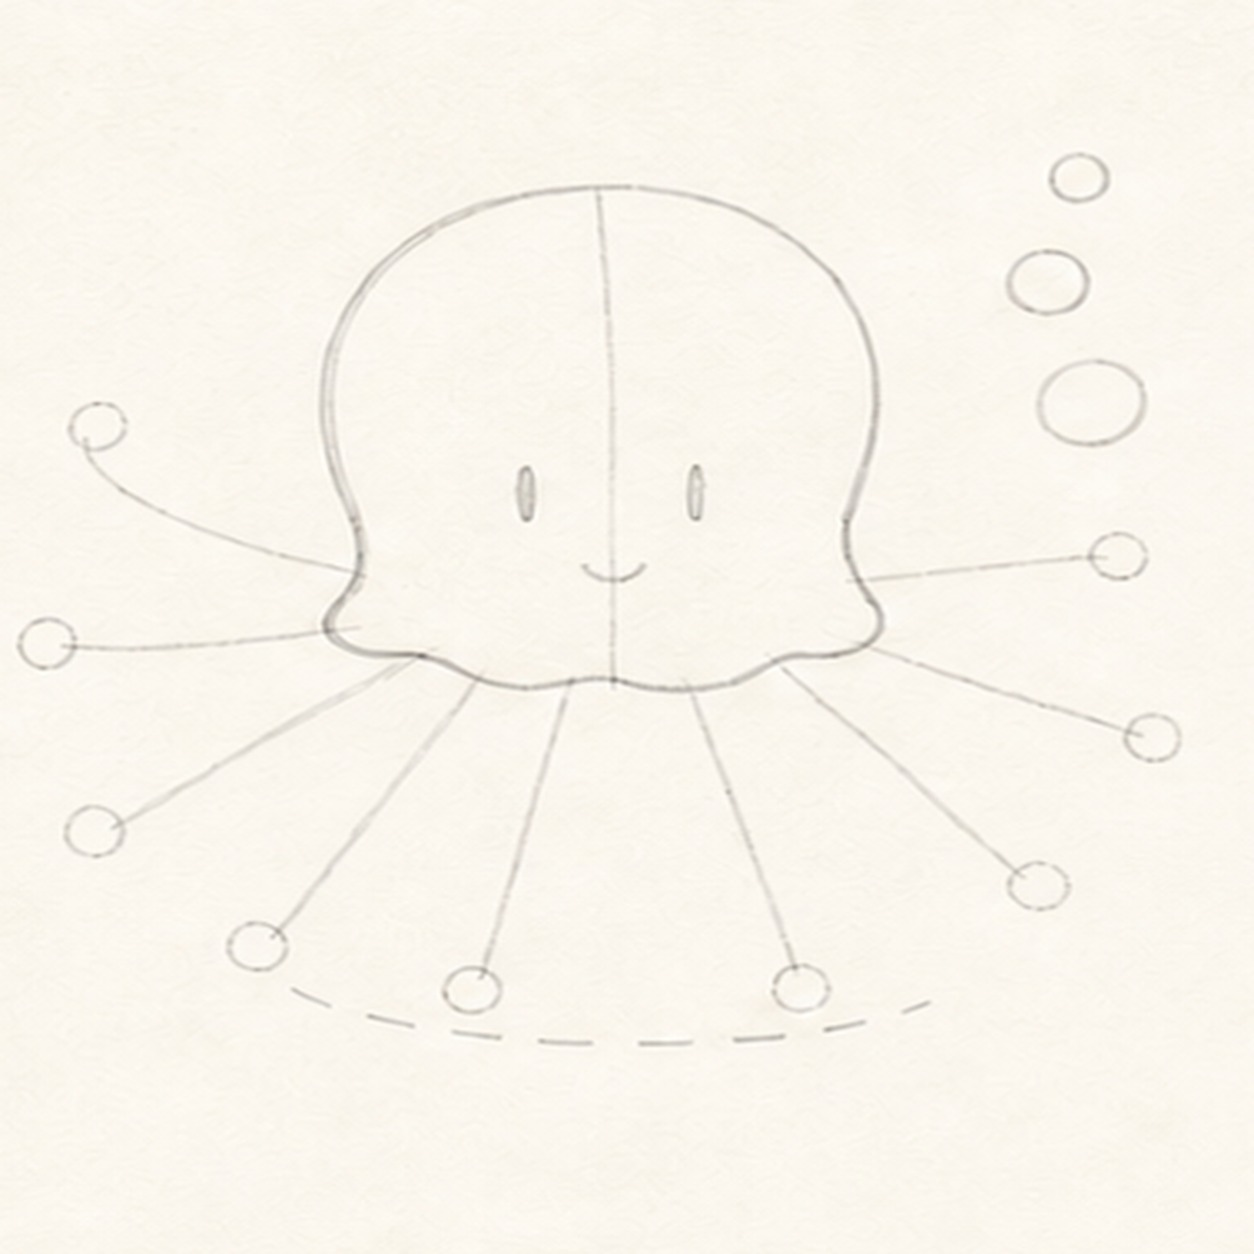
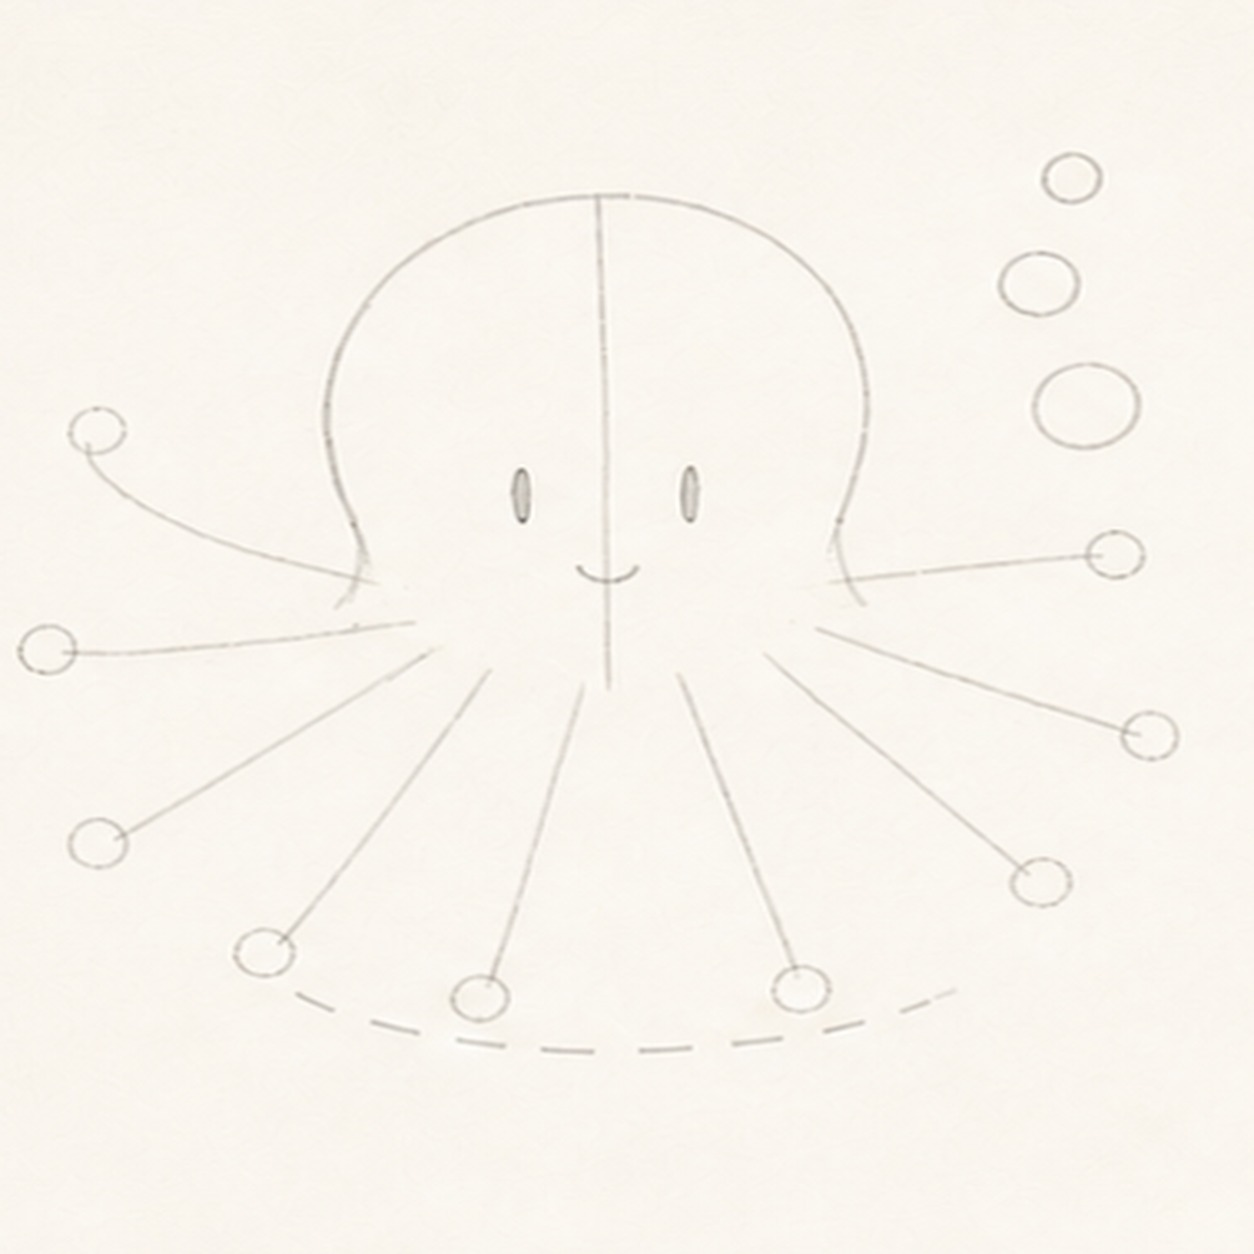
Fix octopus arm transition

diff --git a/tutorials/cheerful-cartoon-octopus.html b/tutorials/cheerful-cartoon-octopus.html
@@ -92,8 +92,8 @@
         },
         {
           "@type": "HowToStep",
-          "name": "Shape the mantle and body",
-          "text": "Connect one soft rounded mantle and shallow lower body above the arm fan while preserving all eight pale arm routes and the face guides."
+          "name": "Shape the open mantle",
+          "text": "Shape the rounded mantle top and sides, but stop both side contours at the arm-base anchors so the lower edge stays open around all eight pale routes."
         },
         {
           "@type": "HowToStep",
@@ -217,12 +217,12 @@
             <button class="step-check" type="button" aria-label="Mark step 2 complete"><span></span></button>
             <div class="step-number">02</div>
             <div class="step-art">
-              <img src="../assets/cheerful-cartoon-octopus-step-2.webp" alt="Shape the mantle and body stage for how to draw a cartoon octopus" width="627" height="627" loading="lazy">
+              <img src="../assets/cheerful-cartoon-octopus-step-2.webp" alt="Shape the open mantle stage for how to draw a cartoon octopus" width="627" height="627" loading="lazy">
             </div>
             <div class="step-copy">
-              <h3>Shape the mantle and body</h3>
-              <p>Connect one soft rounded mantle and shallow lower body above the arm fan while preserving all eight pale arm routes and the face guides.</p>
-              <p class="artist-tip"><strong>Marker tip:</strong> Pull the mantle in two relaxed arcs. Keep its center over the gap between the two front arms so the character stays balanced.</p>
+              <h3>Shape the open mantle</h3>
+              <p>Shape the rounded mantle top and sides, but stop both side contours at the arm-base anchors so the lower edge stays open around all eight pale routes.</p>
+              <p class="artist-tip"><strong>Marker tip:</strong> Pull the upper mantle in two relaxed arcs, then lift the pencil at each arm-base anchor. Do not draw a wavy bottom line; the eight arm contours will close that silhouette in the next step.</p>
             </div>
           </li>
           <li class="step-card">

diff --git a/index.html b/index.html
@@ -115,12 +115,12 @@
             <button class="step-check" type="button" aria-label="Mark step 2 complete"><span></span></button>
             <div class="step-number">02</div>
             <div class="step-art">
-              <img src="assets/cheerful-cartoon-octopus-step-2.webp" alt="Shape the mantle and body stage for how to draw a cartoon octopus" width="627" height="627" loading="lazy">
+              <img src="assets/cheerful-cartoon-octopus-step-2.webp" alt="Shape the open mantle stage for how to draw a cartoon octopus" width="627" height="627" loading="lazy">
             </div>
             <div class="step-copy">
-              <h3>Shape the mantle and body</h3>
-              <p>Connect one soft rounded mantle and shallow lower body above the arm fan while preserving all eight pale arm routes and the face guides.</p>
-              <p class="artist-tip"><strong>Marker tip:</strong> Pull the mantle in two relaxed arcs. Keep its center over the gap between the two front arms so the character stays balanced.</p>
+              <h3>Shape the open mantle</h3>
+              <p>Shape the rounded mantle top and sides, but stop both side contours at the arm-base anchors so the lower edge stays open around all eight pale routes.</p>
+              <p class="artist-tip"><strong>Marker tip:</strong> Pull the upper mantle in two relaxed arcs, then lift the pencil at each arm-base anchor. Do not draw a wavy bottom line; the eight arm contours will close that silhouette in the next step.</p>
             </div>
           </li>
           <li class="step-card">

diff --git a/HUMANS.md b/HUMANS.md
@@ -2,6 +2,11 @@
 
 ## 2026-09-01 — Daily tutorial (Codex)
 
+- Corrected Step 2 after owner review: the rounded mantle now ends at two
+  arm-base anchors with an open lower edge, so Step 3 closes the silhouette
+  with eight arm contours instead of erasing a scalloped keeper line. The
+  superseded sheet is private under `rejected-progressions/`; the finish and
+  one-current-lesson cadence remain unchanged.
 - Added one current lesson only: `cheerful-cartoon-octopus` (September 1 /
   Day 112). The approved repaired eight-panel handmade raster marker process
   keeps one rounded mantle, eight fixed countable arms, two suckers per arm,
